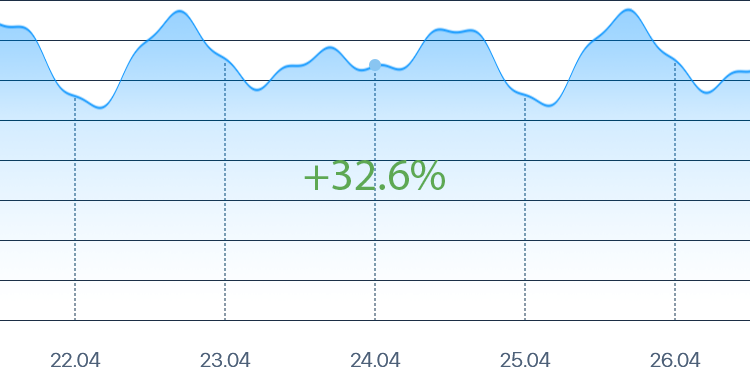
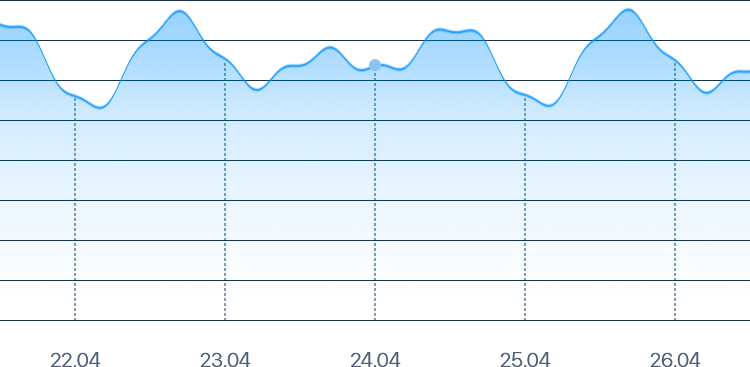
Правки функционала

Changed region(s): [[0.3987, 0.4196, 0.6133, 0.5395]]

diff --git a/src/page/home/ui/Home.jsx b/src/page/home/ui/Home.jsx
@@ -18,7 +18,7 @@ export default function Home(){
   const [activeBot, setActiveBot] = useState(null);
   
   const changeBot = useCallback( (name) => {
-    setActiveBot(name)
+    setActiveBot(name);
   }, [])
 
   const [activeRange, setActiveRange] = useState(null)
@@ -39,12 +39,12 @@ export default function Home(){
 
   useEffect( () => {
 
-    // setTimeout(() => {
+    setTimeout(() => {
       setData(jsonData);
       setLoading(false);
       // setError(true);
 
-    // }, 2000);
+    }, 2000);
     // setLoading(false);
 /*
     fetch('http://127.0.0.1:8080/src/page/home/api/data.min.json/')
@@ -74,16 +74,21 @@ export default function Home(){
 
   
   let botList = [];
+  let chartValue = null;
   
-  if (data.bots){
+  if (data?.bots?.length > 0){
     botList = data.bots.map((el) => {
-      return <Bot key={el.name} name={el.name} clickHandler={changeBot} active={activeBot == el.name} value={el[activeRange]}/>
+      return <Bot key={el.name} name={el.name} clickHandler={changeBot} active={activeBot === el.name} value={el[activeRange]}/>
     })
+    if (data.bots.find( (el) => el.name === activeBot)){
+      chartValue = data.bots.find( (el) => el.name == activeBot)[activeRange]
+    }
   }
   
   let rangeList = ranges.map( (el) => 
     <RangeItem key={el.id} id={el.id} name={el.name} clickHandler={changePeriod} active={activeRange == el.id}  />
   )
+
 
   
   return (
@@ -92,7 +97,7 @@ export default function Home(){
       <main className={classNames(style['home'], {[style['home--loading']]: loading || error }) }>
         { loading && <div className={style['loading']}>Loading...</div> }
         { error && <div className={style['error']}>Error, reload page</div> }
-        <div className='content'>
+        <div className={style['content']}>
           <header className={style['header']}>
             <div className={style['header__title']}>Trading capital</div>
             <div className={style['header__value']}>
@@ -102,19 +107,19 @@ export default function Home(){
               <div className={classNames(style['header__wallet'], style['wallet'])}>
                 <div className={style['wallet__item']}>
                   <span className={style['wallet__title']}>Balance:</span>
-                  <span className={style['wallet__value']}>{!!data.balance ? data['balance'] : '—'}</span>
+                  <span className={style['wallet__value']}>{data.balance ? data['balance'] : '—'}</span>
                   <img src='/img/home/value-icon.png'/>
                 </div>
                 <div className={style['wallet__item']}>
                   <span className={style['wallet__title']}>On hold:</span>
-                  <span className={style['wallet__value']}>{!!data.on_hold ? data.on_hold : '—'}</span>
+                  <span className={style['wallet__value']}>{data.on_hold ? data.on_hold : '—'}</span>
                   <img src='/img/home/value-icon.png'/>
                 </div>
               </div>
             </div>
           </header>
           <div className={style['chart']}>
-            <Chart/>
+            <Chart value={chartValue}/>
           </div>
           <div className={style['bot-list']}>
             {botList}

diff --git a/src/page/home/ui/Chart/Chart.jsx b/src/page/home/ui/Chart/Chart.jsx
@@ -1,8 +1,11 @@
-import style from './Chart.module.scss'
+import classNames from 'classnames';
+import style from './Chart.module.scss';
 
 export default function Chart({value}){
   return (
     <div className={style['chart']}>
+      <div className={classNames(style['chart__value'], {[style['chart__value--green']]: value >= 0}, {[style['chart__value--red']]: value < 0})}>{value > 0 ? '+' : ''}{!!value ? value : '—'}%</div>
+      {/* <div className={classNames(style['chart__value'], {[style['chart__value--green']]: value >= 0}, {[style['chart__value--red']]: value < 0})}>{value > 0 ? '+' : ''}32.6%</div> */}
       <img src='/img/home/chart.png' alt="chart" className={style['chart__item']}/>
     </div>
   )

diff --git a/src/page/home/ui/Bot/Bot.jsx b/src/page/home/ui/Bot/Bot.jsx
@@ -8,7 +8,7 @@ export default function Bot({name, clickHandler, active, value}){
         <img src={`/img/home/bot/${name}.png`} alt={name} className={style['bot__icon']} />
       </span>
       <span className={style['bot__name']}>{name}</span>
-      <span className={classNames(style['bot__value'], {[style['bot__value--green']]: value >= 0}, {[style['bot__value--red']]: value < 0})}>{value}</span>
+      <span className={classNames(style['bot__value'], {[style['bot__value--green']]: value >= 0}, {[style['bot__value--red']]: value < 0})}>{value > 0 ? '+' : ''}{value}</span>
     </button>
   )
 }

diff --git a/src/page/home/ui/Chart/Chart.module.scss b/src/page/home/ui/Chart/Chart.module.scss
@@ -1,8 +1,22 @@
 .chart{
+  position: relative;
   padding-top: 40px;
   &__item{
     display: block;
     width: 100%;
     aspect-ratio: 2;
   } 
+  &__value{
+    position: absolute;
+    top: 50%;
+    left: 50%;
+    transform: translate(-50%, -50%);
+    font-size: 45px;
+    &--green{
+      color: var(--cl-success);
+    }
+    &--red{
+      color: var(--cl-error);
+    }
+  }
 }
